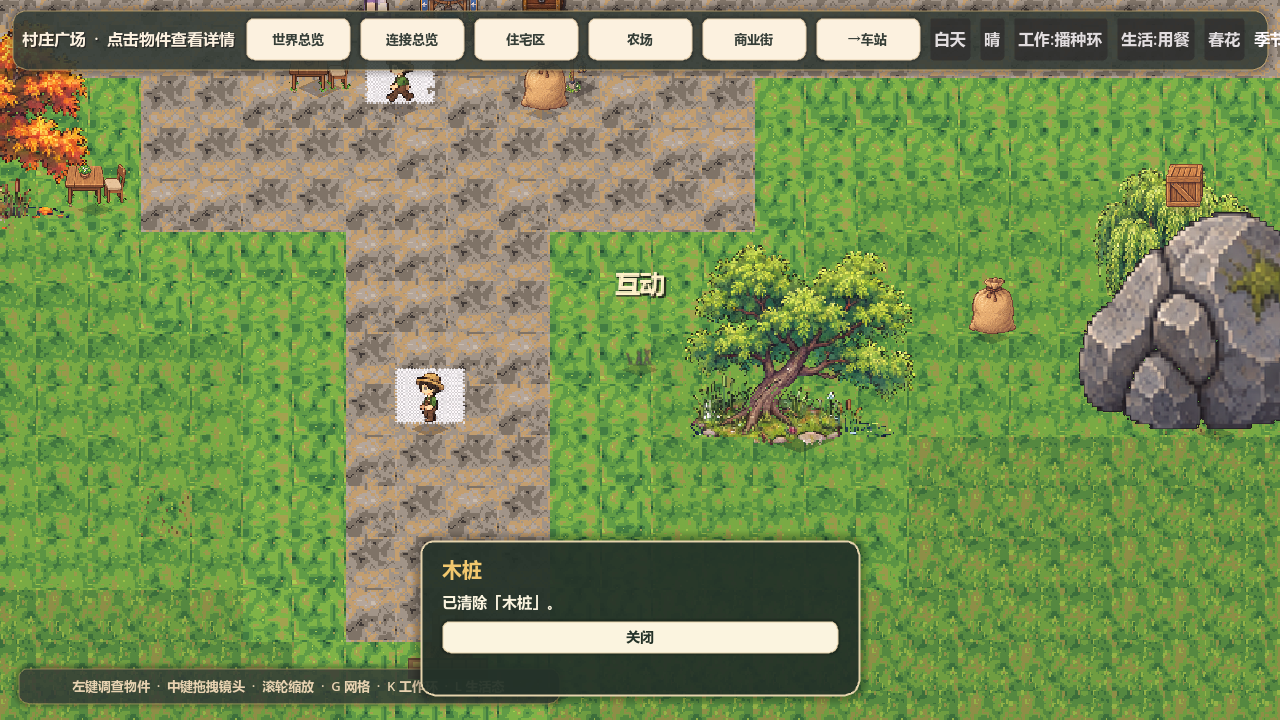
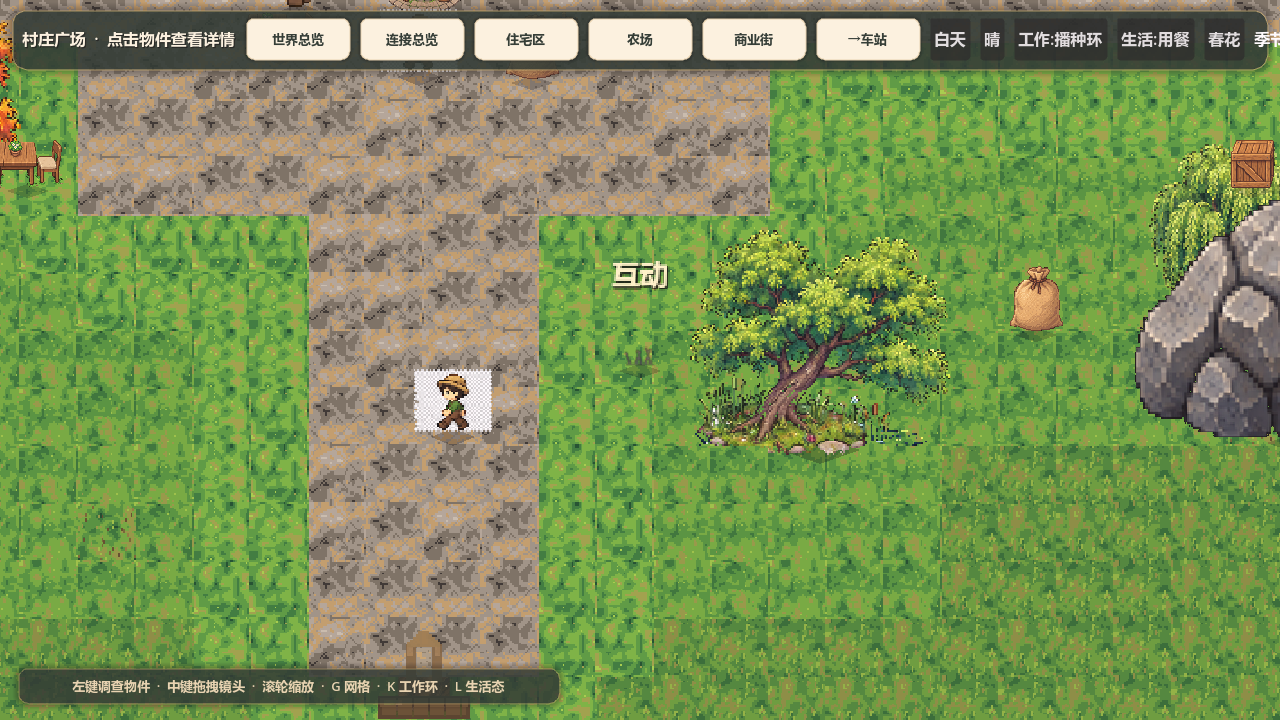
Fix C59 weed evidence shot and assert mcp_clear in worldsys smoke.
Retakes the mislabeled weed PropSprite capture and requires four breakables plus a successful weed mcp_clear probe.

diff --git a/dream/docs/GOAL_G8_C59_BREAKABLES_EVIDENCE.md b/dream/docs/GOAL_G8_C59_BREAKABLES_EVIDENCE.md
@@ -8,10 +8,10 @@
 | Probe | Result |
 | --- | --- |
 | Stake PropSprite | present (`breakable_stake_00`) — `g8_c59_breakables_stake.png` |
-| Weed PropSprite | present (`breakable_weed_00`) — `g8_c59_breakables_weed.png` |
+| Weed PropSprite | present (`breakable_weed_00`) — `g8_c59_breakables_weed.png`（镜头对准杂草，无 InfoPanel） |
 | `BreakablesKit.mcp_clear("stake")` | `ok=true`, `cleared=1`, `remaining_nodes=3` |
 | After clear | InfoPanel + stake removed — `g8_c59_stake_cleared.png` |
 
-Headless: covered by `g8_worldsys_activate_smoke` (breakables=4).
+Headless: `g8_worldsys_activate_smoke` — breakables **≥4** + **`mcp_clear("weed")`** assert.
 
 User Godot QA still required (§7).
